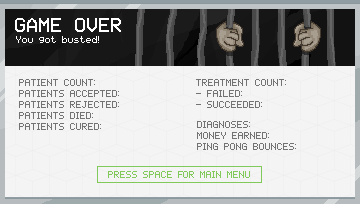
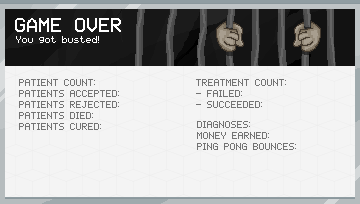
implements buttons in all modals and fixes issue with hover coordinates on stages with offset

Changed region(s): [[0.275, 0.7941, 0.7333, 0.9118]]

diff --git a/src/Button.js b/src/Button.js
@@ -18,7 +18,7 @@
  */
 
 function Button(image, frames, action, clickSound = null, hoverSound = null) {
-  this.image = image
+  this.image = image;
   this.frames = frames;
   this.hoverSound = hoverSound;
   this.clickSound = clickSound;
@@ -28,30 +28,38 @@ function Button(image, frames, action, clickSound = null, hoverSound = null) {
   this.armed = false;
 }
 
-Button.prototype.isHovered = function(x, y) {
+Button.prototype.isHovered = function(x, y, offsetX, offsetY) {
     return (
-        mouseHandler.mouse.canvasX >= x &&
-        mouseHandler.mouse.canvasX < (x + this.image.frameWidth) &&
-        mouseHandler.mouse.canvasY >= y &&
-        mouseHandler.mouse.canvasY < (y + this.image.frameHeight)
+        mouseHandler.mouse.canvasX >= (x + offsetX) &&
+        mouseHandler.mouse.canvasX < (x + offsetX + this.image.frameWidth) &&
+        mouseHandler.mouse.canvasY >= (y + offsetY) &&
+        mouseHandler.mouse.canvasY < (y + offsetY + this.image.frameHeight)
     );
 }
 
-Button.prototype.paint = function(ctx, x, y) {
+/**
+ * The Paint method of the button class.
+ * 
+ * Call this in the render method of the parent stage. If the stages' point of origin is not 0, 0 but translated
+ * in some way, apply offsetX and offsetY to adjust the hover calculations since mouse positions are absolute over
+ * the whole canvas
+ */
+
+Button.prototype.paint = function(ctx, x, y, offsetX = 0, offsetY = 0) {
 
     if (this.hovered && this.armed && !mouseHandler.mouse.click) {
         if (this.clickSound) this.clickSound.play();
         this.action();
         this.hovered = false;
         this.armed = false;
-      } else if (this.isHovered(x,y) && this.hovered && mouseHandler.mouse.click) {
+      } else if (this.isHovered(x,y,offsetX,offsetY) && this.hovered && mouseHandler.mouse.click) {
         this.armed = true;
         this.frame = getArrayFrame(timer.gameTime / this.frames.armedSpeed, this.frames.armed);
-      } else if (this.isHovered(x,y) && !mouseHandler.mouse.click && !this.hovered) {
+      } else if (this.isHovered(x,y,offsetX,offsetY) && !mouseHandler.mouse.click && !this.hovered) {
         this.hovered = true;
         if (this.hoverSound) this.hoverSound.play();
         this.frame = getArrayFrame(timer.gameTime / this.frames.hoveredSpeed, this.frames.hovered);
-      } else if (!this.isHovered(x,y)) {
+      } else if (!this.isHovered(x,y,offsetX,offsetY)) {
         this.hovered = false;
         this.armed = false;
         this.frame = getArrayFrame(timer.gameTime / this.frames.idleSpeed, this.frames.idle);

diff --git a/src/stages/GameOverStage.js b/src/stages/GameOverStage.js
@@ -33,11 +33,12 @@ GameOverStage.prototype.preload = function() {
     armedSpeed: 75
   }
 
+  this.buttonImage = loader.loadImage(IMAGES_BASE_PATH + 'gameover_buttons.png', 8, 2);
   this.hoverSound = loader.loadAudio({src: AUDIO_BASE_PATH + 'sounds/key-clicking/key-clicking.mp3'});
   this.backgrounds = endings.map(ending => loader.loadImage(IMAGES_BASE_PATH + ending + '.png'));
   this.soundGameOver = loader.loadAudio({src: AUDIO_BASE_PATH + 'sounds/outcomes/outcomes-gameover.mp3'});
-  this.backToMenuButton = new Button(this.menuButtons, backToMenuButtonFrames, function() { console.log('1') }, undefined, this.hoverSound);
-  this.keepPlayingButton = new Button(this.menuButtons, keepPlayingButtonFrames, function() { console.log('2') }, undefined, this.hoverSound);
+  this.backToMenuButton = new Button(this.buttonImage, backToMenuButtonFrames, function() { stageManager.activeStage.transitionTo("start"); }, undefined, this.hoverSound);
+  this.keepPlayingButton = new Button(this.buttonImage, keepPlayingButtonFrames, function() { stageManager.activeStage.transitionOut(800); }, undefined, this.hoverSound);
 
 }
 
@@ -59,6 +60,7 @@ GameOverStage.prototype.render = function(ctx, timer) {
   ctx.globalAlpha = 1;
   const y = (h - this.backgrounds[this.gameOverNr].height) / 2 - ( (10 / p) - 10);
   const x = (w - this.backgrounds[this.gameOverNr].width) / 2;
+
   ctx.translate(x, y);
   drawImageToScreen(ctx, this.backgrounds[this.gameOverNr], 0, 0, 0, 1, 1, 0, 0);
 
@@ -76,6 +78,14 @@ GameOverStage.prototype.render = function(ctx, timer) {
   mainFont.drawText(ctx, gameStage.gameState.stats.diagnoses, 310, 121, "darkgray", 1);
   mainFont.drawText(ctx, gameStage.gameState.stats.moneyEarned, 310, 132, "darkgray", 1);
   mainFont.drawText(ctx, gameStage.gameState.stats.pingPongBounces, 310, 143, "darkgray", 1);
+
+  // Draw Buttons
+  if (this.gameOverNr == 2) {
+    this.keepPlayingButton.paint(ctx, 57, 166, x, y);
+    this.backToMenuButton.paint(ctx, 185, 166, x, y);
+  } else {
+    this.backToMenuButton.paint(ctx, 121, 166, x, y);
+  }
 
 };
 

diff --git a/src/stages/InstructionsStage.js b/src/stages/InstructionsStage.js
@@ -10,8 +10,19 @@ InstructionsStage.prototype.preload = function() {
   const AUDIO_BASE_PATH = ASSETS_BASE_PATH + 'audio/';
 
   this.image = loader.loadImage(IMAGES_BASE_PATH + 'modal_intro.png');
+  const introButtonFrames = {
+    idle: [0, 0, 0, 0, 0, 0, 0, 0, 0, 1, 2, 3, 4, 5],
+    idleSpeed: 75,
+    hovered: [6],
+    hoveredSpeed: 75,
+    armed: [7],
+    armedSpeed: 75
+  }
 
+  this.buttonImage = loader.loadImage(IMAGES_BASE_PATH + 'intro_buttons.png', 8, 1);
   this.soundSliding = loader.loadAudio({src: AUDIO_BASE_PATH + 'sounds/paper-sliding/paper-sliding.mp3'});
+  this.hoverSound = loader.loadAudio({src: AUDIO_BASE_PATH + 'sounds/key-clicking/key-clicking.mp3'});
+  this.introButton = new Button(this.buttonImage, introButtonFrames, function() { stageManager.activeStage.transitionOut(800); }, undefined, this.hoverSound);
 }
 
 InstructionsStage.prototype.prestart = function() {
@@ -34,6 +45,9 @@ InstructionsStage.prototype.render = function(ctx, timer) {
   const x = (w - this.image.width) / 2;
   ctx.translate(x, y);
   drawImageToScreen(ctx, this.image, 0, 0, 0, 1, 1, 0, 0);
+
+  // Button
+  this.introButton.paint(ctx, 101, 110, x, y);
 
 };
 
